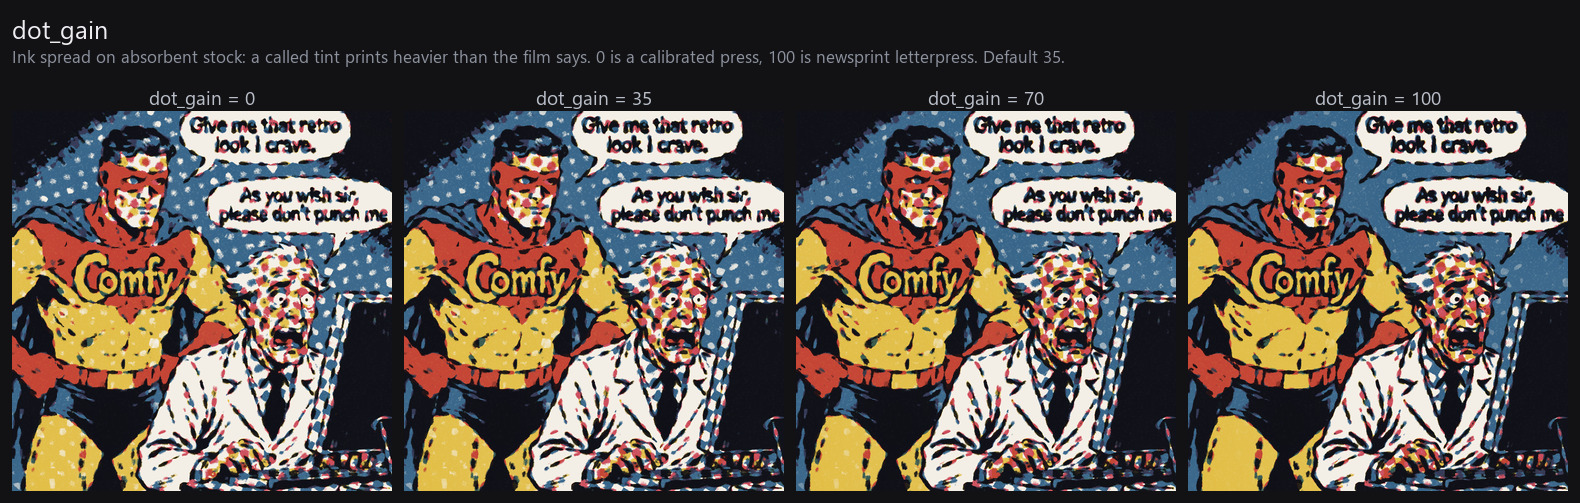
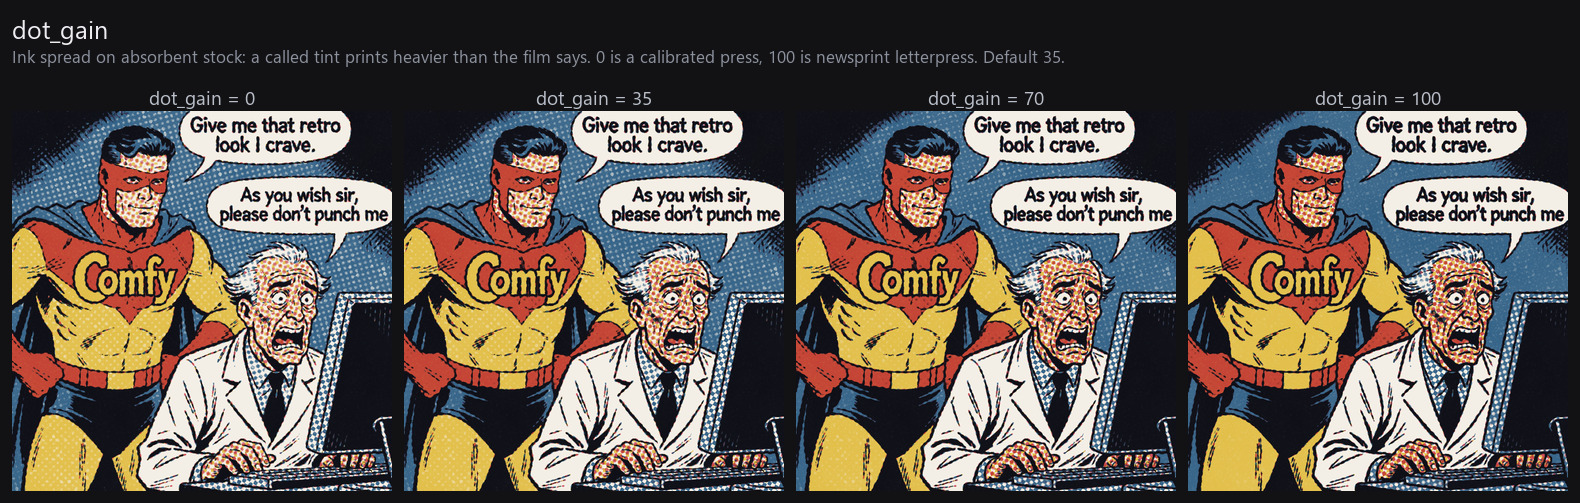
Render the whole documentation set at the finer screen
The pattern grid was fixed on its own last commit, but the slider sweeps and
the Ben-Day images were still at 320 and had the same problem: the dots were
large enough to swamp the picture, so faces, lettering and keyboard detail
were gone and the sweeps were harder to read rather than easier.

SHOW_SCALE is now 120 across the board, the value the pattern grid was already
using. The larger source and panel size from the earlier change stay, so these
carry more detail than the first version did.

The two strips that set their own screen keep it: the scale sweep has to span
its own range, and the rosette needs plenty of dots in frame to show an
interference pattern at all.

Captions that described a deliberately coarse screen are corrected, since that
is no longer what the images show.

Changed region(s): [[0.0, 0.2087, 0.9924, 0.9841]]

diff --git a/docs/generate_docs_images.py b/docs/generate_docs_images.py
@@ -170,17 +170,13 @@ def save(im, out_dir, stem, ext):
 # What to render
 # --------------------------------------------------------------------------
 
-# Documentation images get a coarser screen than you would normally print at.
-# The default scale of 60 is fine press: at README width those dots are a pixel
-# or two and the whole point of the node becomes invisible.
-SHOW_SCALE = 320
-
-# The pattern grid is the exception. A slider sweep only has to show the slider
-# moving, so a coarse screen suits it, but the pattern grid has to show what
-# each screen actually looks like: at 320 the dots grow so large that the shape
-# of the pattern swamps the picture and the finer screens stop being
-# distinguishable from one another.
-PATTERN_SCALE = 120
+# The screen used across the documentation. Coarser than the node's default of
+# 60, because at 60 the dots are a pixel or two at page width and the whole
+# point of the node is invisible. Not much coarser though: past about 200 the
+# dots start swamping the picture, faces and lettering go, and the finer
+# screens stop being distinguishable from one another.
+SHOW_SCALE = 120
+PATTERN_SCALE = SHOW_SCALE
 
 # A dozen of the 37 presets, chosen to span the families rather than to be a
 # catalogue: newsprint, the three comic eras, poster stock, and the odd ones.
@@ -306,7 +302,7 @@ def main():
     if want("patterns"):
         panels = [(n, run(pattern=n, scale=PATTERN_SCALE)) for n in PATTERNS_SHOWN]
         save(make_grid(panels, "pattern",
-                       "Twelve of the 17 screen patterns, all at the same scale so the only difference is the pattern. Rendered finer than the slider sweeps on purpose: the point here is the character of each screen, and at a coarse scale the dot size swamps it. Dot screens, hatching, radial, and mezzotint's stochastic grain, which has no lattice at all.",
+                       "Twelve of the 17 screen patterns, all at the same scale so the only difference is the pattern itself. Dot screens, hatching, radial, and mezzotint's stochastic grain, which has no lattice at all.",
                        args.width, cols=3), args.out, "patterns", args.ext)
 
     for s in SWEEPS:
@@ -387,9 +383,9 @@ def main():
             # preset would show no difference across this sweep at all.
             panels.append((f"offset_angles = {note}",
                            # A rosette is an interference pattern between dot
-                           # grids, so it needs many dots in frame. This is the
-                           # one strip that wants a finer screen, not a coarser
-                           # one.
+                           # grids, so it needs plenty of dots in frame; hence
+                           # a slightly finer screen than the rest of the docs,
+                           # and no plate drift to muddy it.
                            center_crop(run(offset_angles=v, scale=90,
                                            plate_drift=0, dot_gain=20), 0.4)))
         save(make_grid(panels, "Why the screen angles matter",
